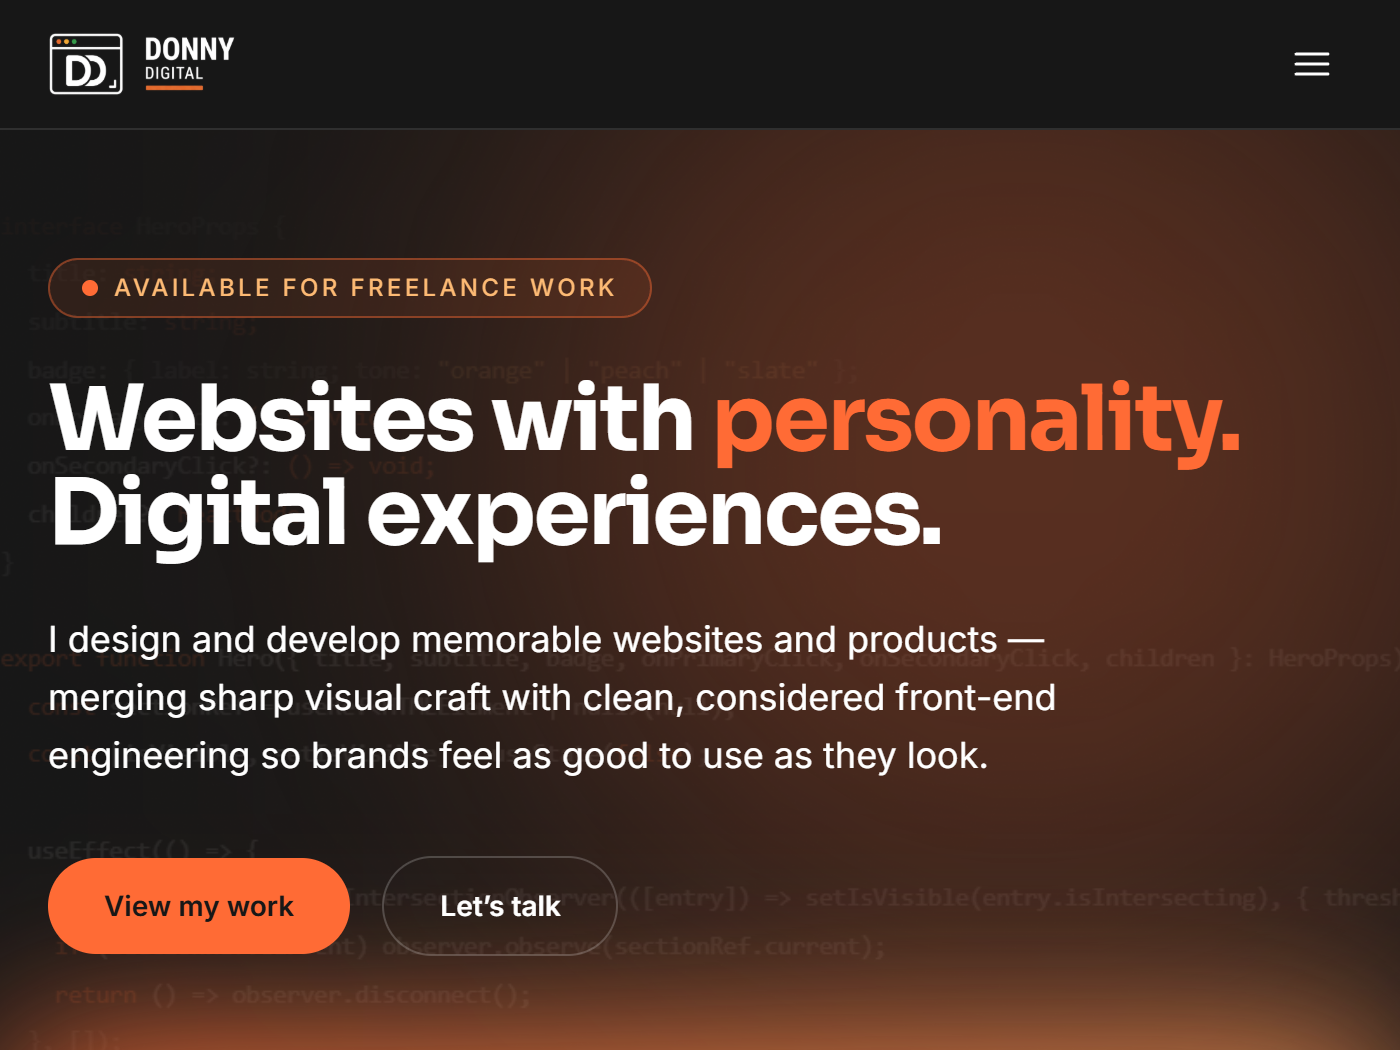
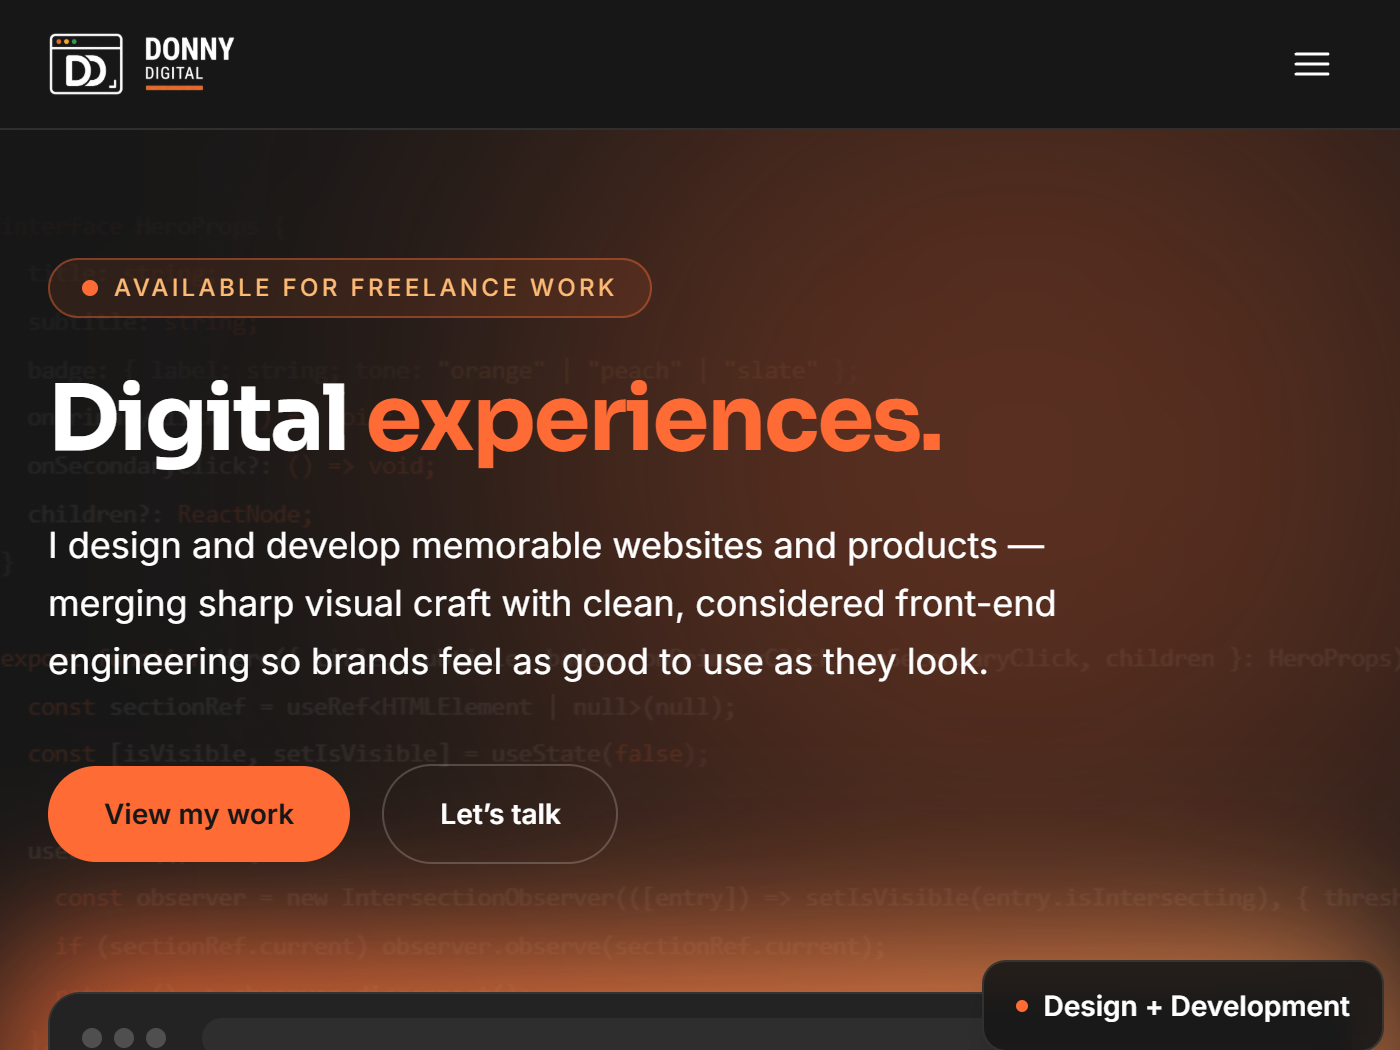
Simplify hero headline to Digital experiences and refresh mockup screenshot

Changed region(s): [[0.0, 0.3657, 1.0, 1.0]]

diff --git a/src/components/Hero.tsx b/src/components/Hero.tsx
@@ -24,8 +24,7 @@ export default function Hero() {
           </span>
 
           <h1 className="text-balance mt-7 font-display text-[clamp(2.5rem,6.5vw,5rem)] font-bold leading-[1.03] tracking-tight text-white">
-            Websites with <span className="text-orange">personality.</span>{" "}
-            Digital experiences.
+            Digital <span className="text-orange">experiences.</span>
           </h1>
 
           <p className="mt-6 max-w-lg text-lg leading-relaxed text-white">
